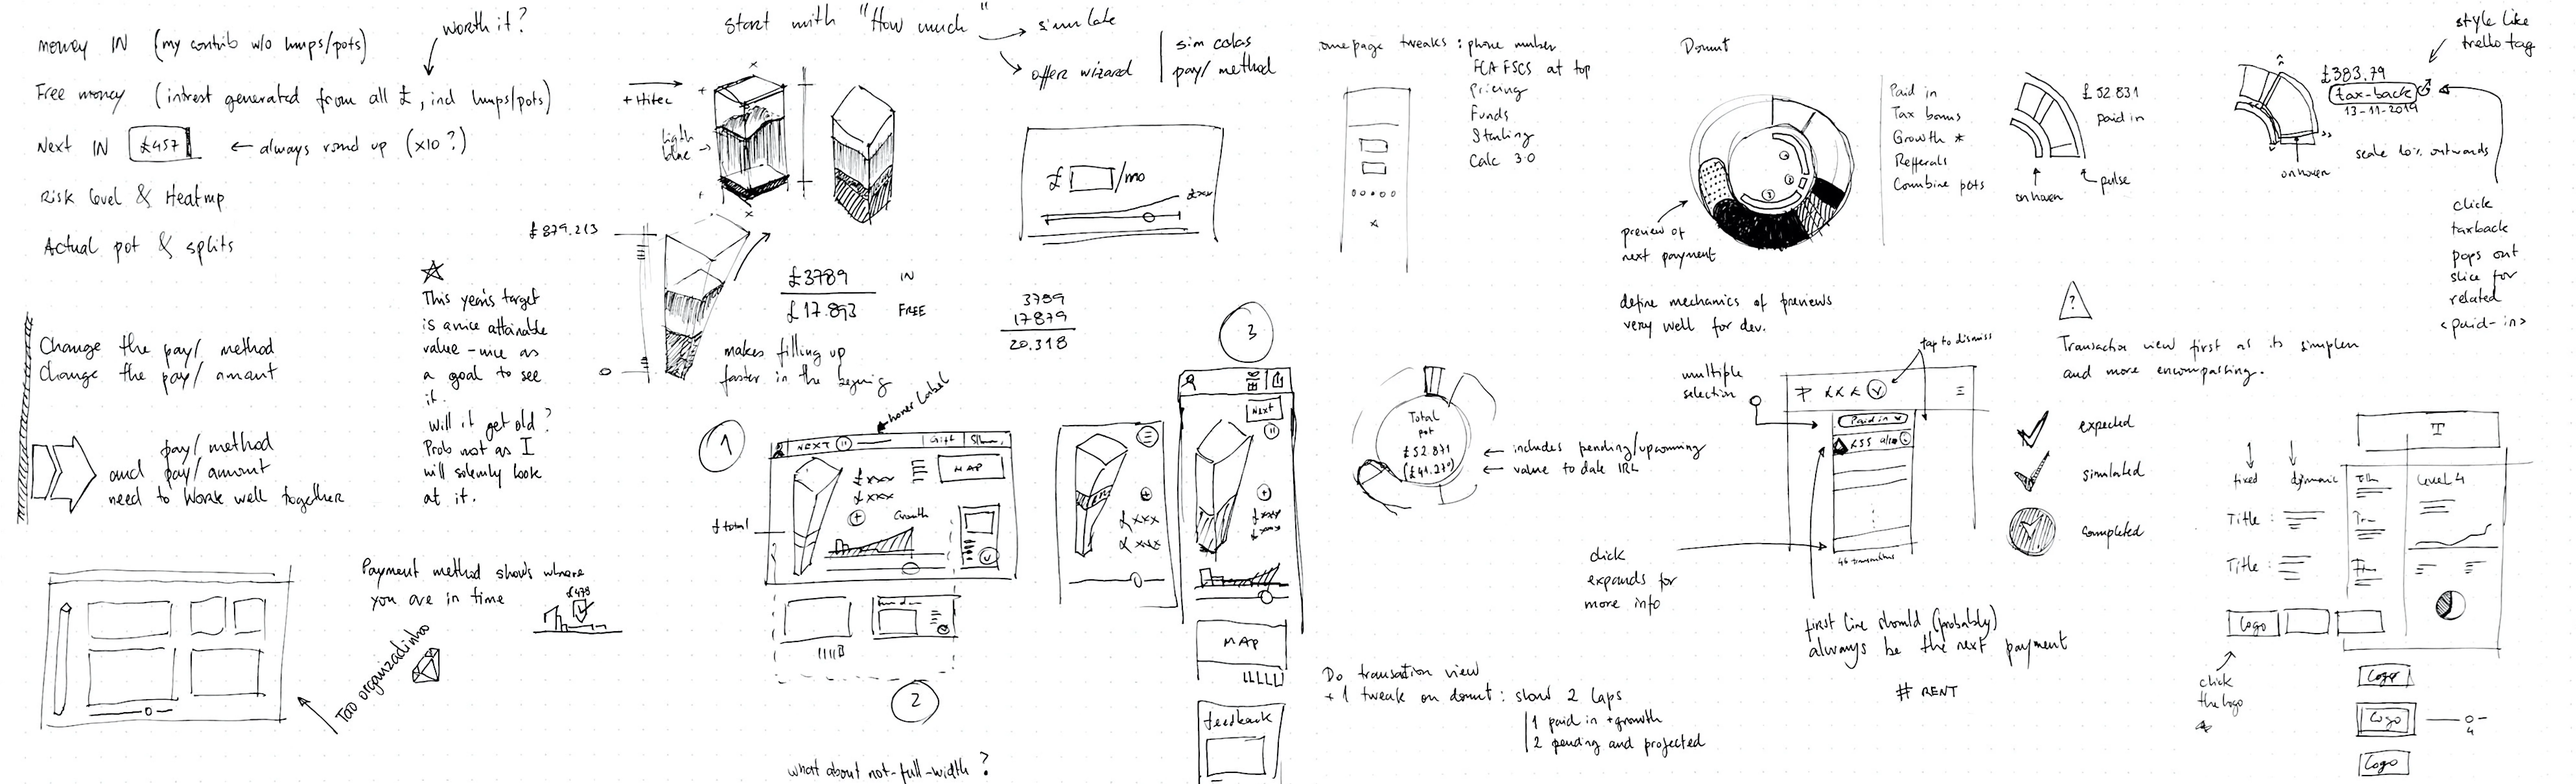
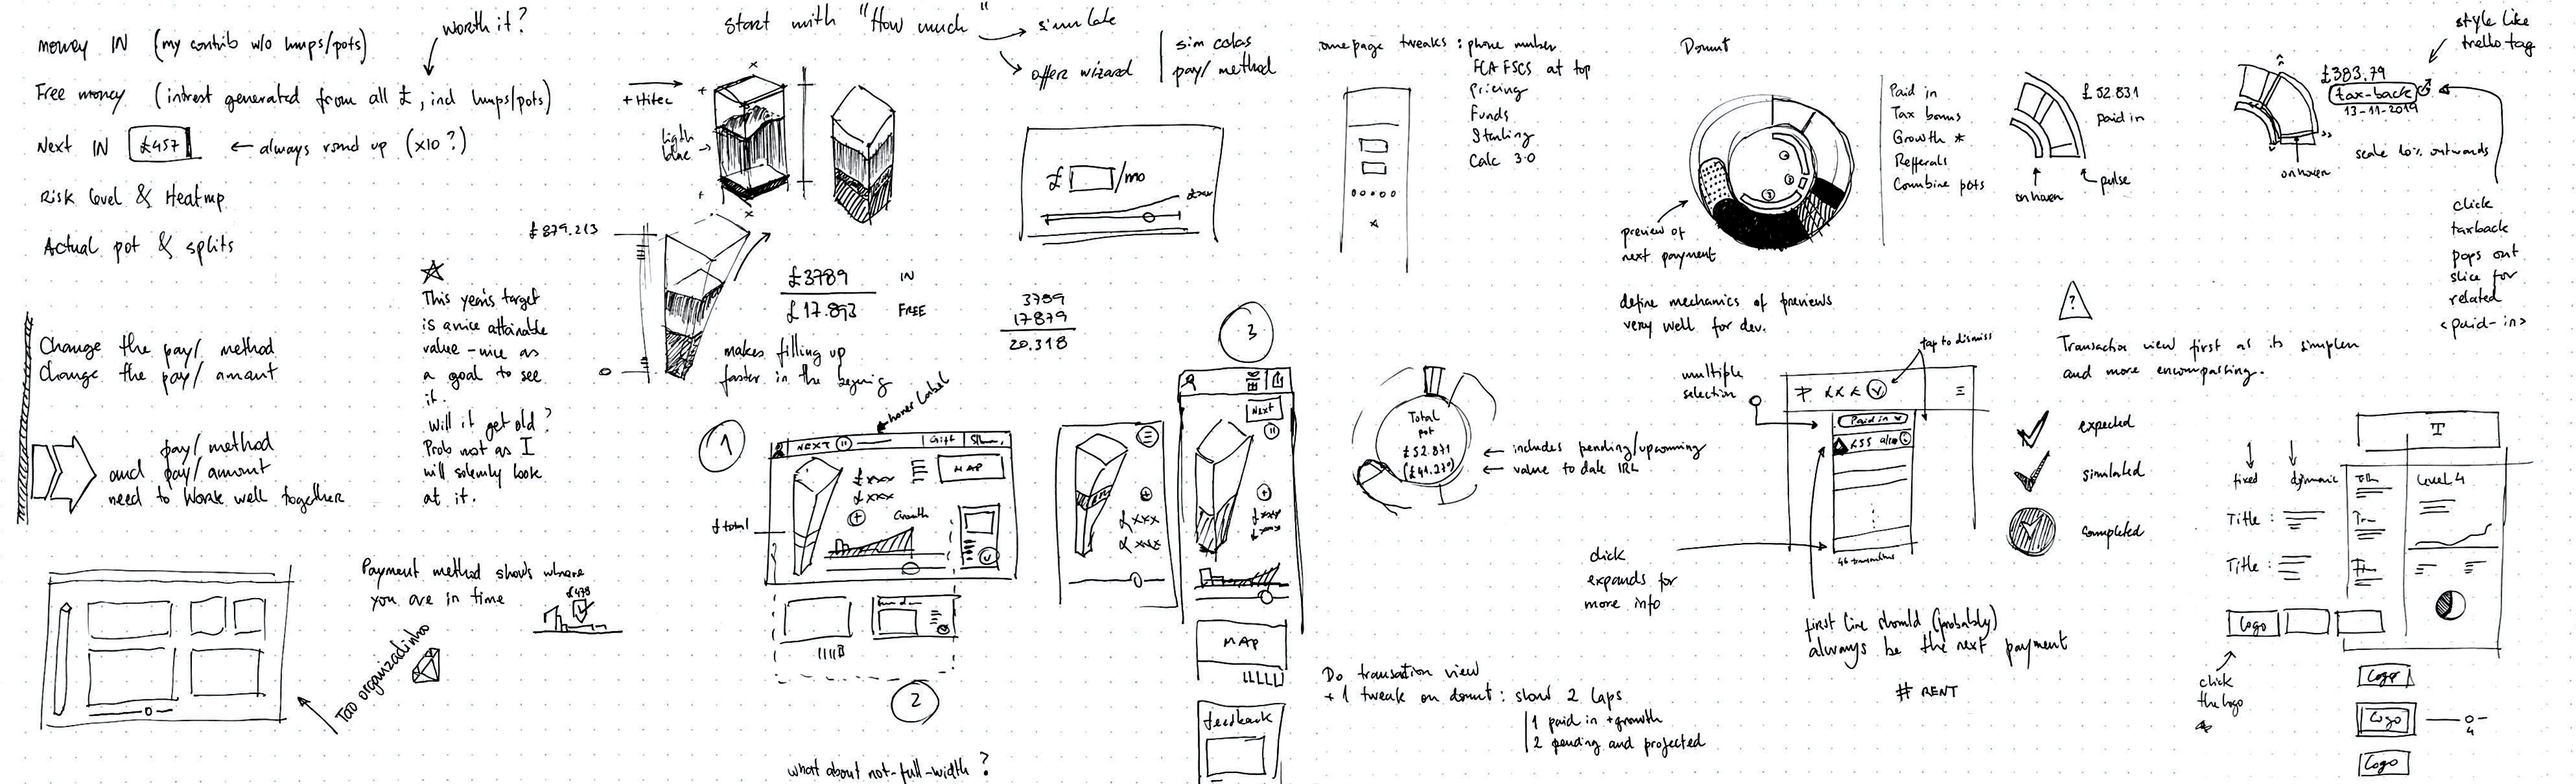
Penfold Imagine: sketches darkened, the image multiplied by itself three times

diff --git a/versions/penfold/2026-09-29-imagine/source/NOTES.md b/versions/penfold/2026-09-29-imagine/source/NOTES.md
@@ -40,3 +40,8 @@ Dark is unchanged. The sketches image is blended with multiply in light, so its 
 
 No frame is shorter than 900px of screen (126px on the page, a 4:3 frame), and every screen keeps at least
 170px of its own space under its last element, so short screens still read as screens and the dot sits clear.
+
+## Sketches, darker
+
+`img/sketches-strip.webp` is the Figma export multiplied by itself three times (each pixel cubed), the same as
+stacking three copies with multiply. The untouched export is in CodeCatalog, `images/penfold/sketches-strip/`.
